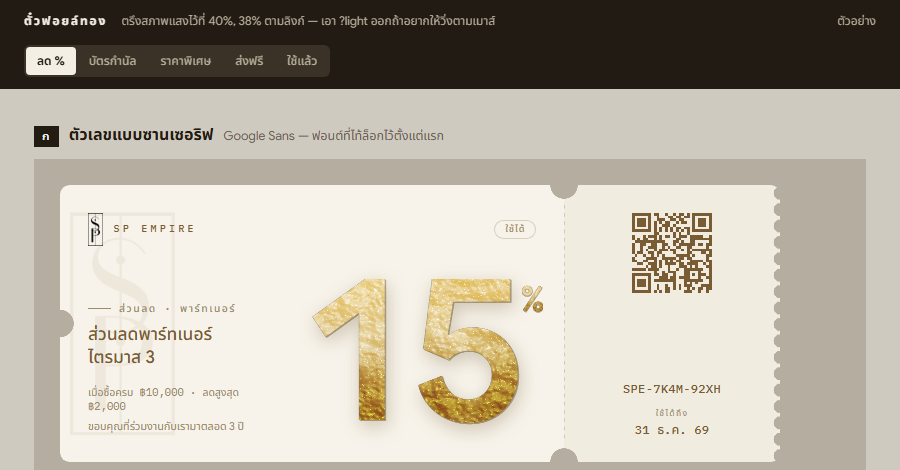
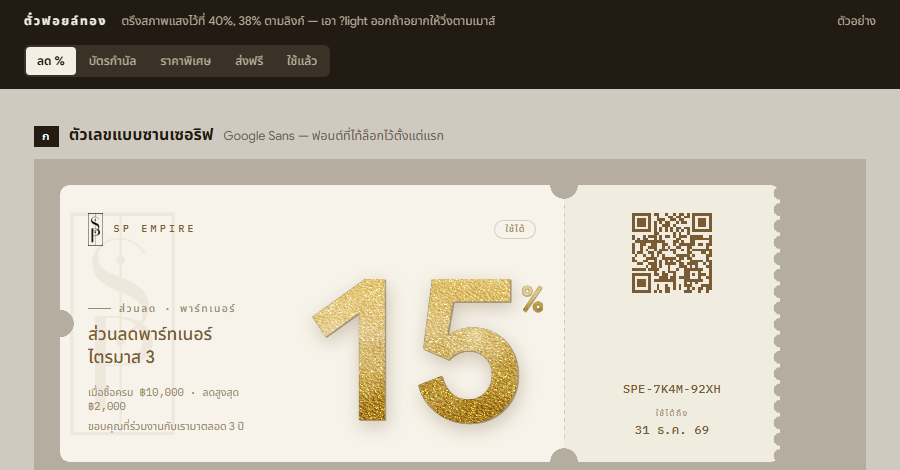
design: take the hammering right down to a fine sparkle
Tie asked for much finer, twice. The dents are now 2 to 4 pixels rather than 8
to 17, which stops reading as struck metal and starts reading as fine glitter
foil — which is what his sparkle references actually show.

Two things had to move together. The height field went up near the ceiling the
tile size allows, and the layer is drawn smaller so the tile compresses further
on screen. Shrinking it also shortens how far that layer travels, so the glitter
was pulled down as well to keep the two sliding at clearly different speeds;
that offset is what makes flakes wink rather than drift as one sheet.

Textures are 130KB across three tiles. Fine detail is close to noise and
compresses badly, so this is the cost of the look — worth saying plainly rather
than burying. All three still tile seamlessly. 92/92 self-test.

Changed region(s): [[0.4667, 0.5957, 0.5911, 0.8936], [0.3422, 0.5957, 0.4356, 0.8936]]

diff --git a/src/styles/designs/foilticket.css b/src/styles/designs/foilticket.css
@@ -329,7 +329,7 @@
       rgba(255, 240, 190, 0) 100%),
     var(--ft-foil-env),
     var(--ft-foil-base);
-  background-size: 132% 132%, 224% 224%, 100% 100%, 166% 166%, 100% 100%;
+  background-size: 118% 118%, 150% 150%, 100% 100%, 166% 166%, 100% 100%;
   background-position:
     var(--ft-ex) var(--ft-ey), var(--ft-ex) var(--ft-ey), 0 0,
     var(--ft-ex) var(--ft-ey), 0 0;
@@ -405,7 +405,7 @@
       rgba(255, 240, 190, 0) 100%),
     var(--ft-foil-env),
     var(--ft-foil-base);
-  background-size: 132% 132%, 224% 224%, 100% 100%, 166% 166%, 100% 100%;
+  background-size: 118% 118%, 150% 150%, 100% 100%, 166% 166%, 100% 100%;
   background-position:
     var(--ft-ex) var(--ft-ey), var(--ft-ex) var(--ft-ey), 0 0,
     var(--ft-ex) var(--ft-ey), 0 0;

diff --git a/tools/make-foil-textures.py b/tools/make-foil-textures.py
@@ -55,7 +55,7 @@ w = rng.normal(size=(SIZE, SIZE))
 # หลุมใหญ่ = รอยทุบ · หลุมกลาง = รอยยับซ้อน · ละเอียด = ผิวหยาบของแผ่น
 # ⚠ เคยใช้ 5-13 ซึ่งให้หลุมกว้างราว 30-77px บนภาพ = ก้อนใหญ่เหมือนกระดาษยับ
 #    ฟอยล์ทุบจริงรอยถี่กว่านั้นมาก · ดันขึ้นทั้งสามชั้นให้เหลือรอยละเอียด 2-17px
-height = 1.0 * band(w, 22, 48) + 0.62 * band(w, 55, 105) + 0.3 * band(w, 115, 180)
+height = 1.0 * band(w, 45, 95) + 0.68 * band(w, 105, 165) + 0.34 * band(w, 172, 190)
 height = norm(height)
 # ทำให้ยอดแหลมและก้นแบน เหมือนโลหะที่ถูกทุบจริง (ไม่ใช่คลื่นไซน์นุ่ม ๆ)
 height = np.sign(height) * np.abs(height) ** 0.78
